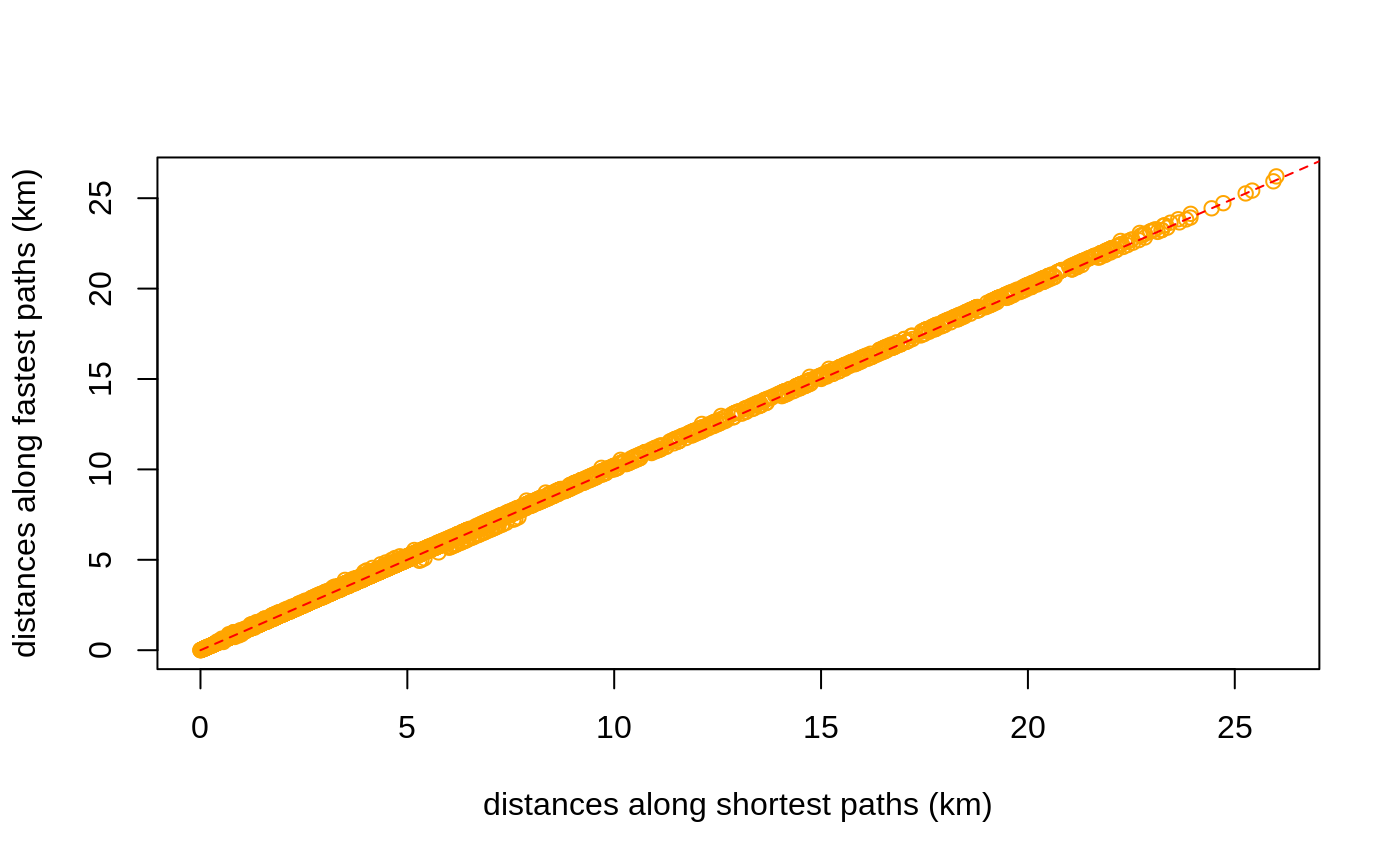
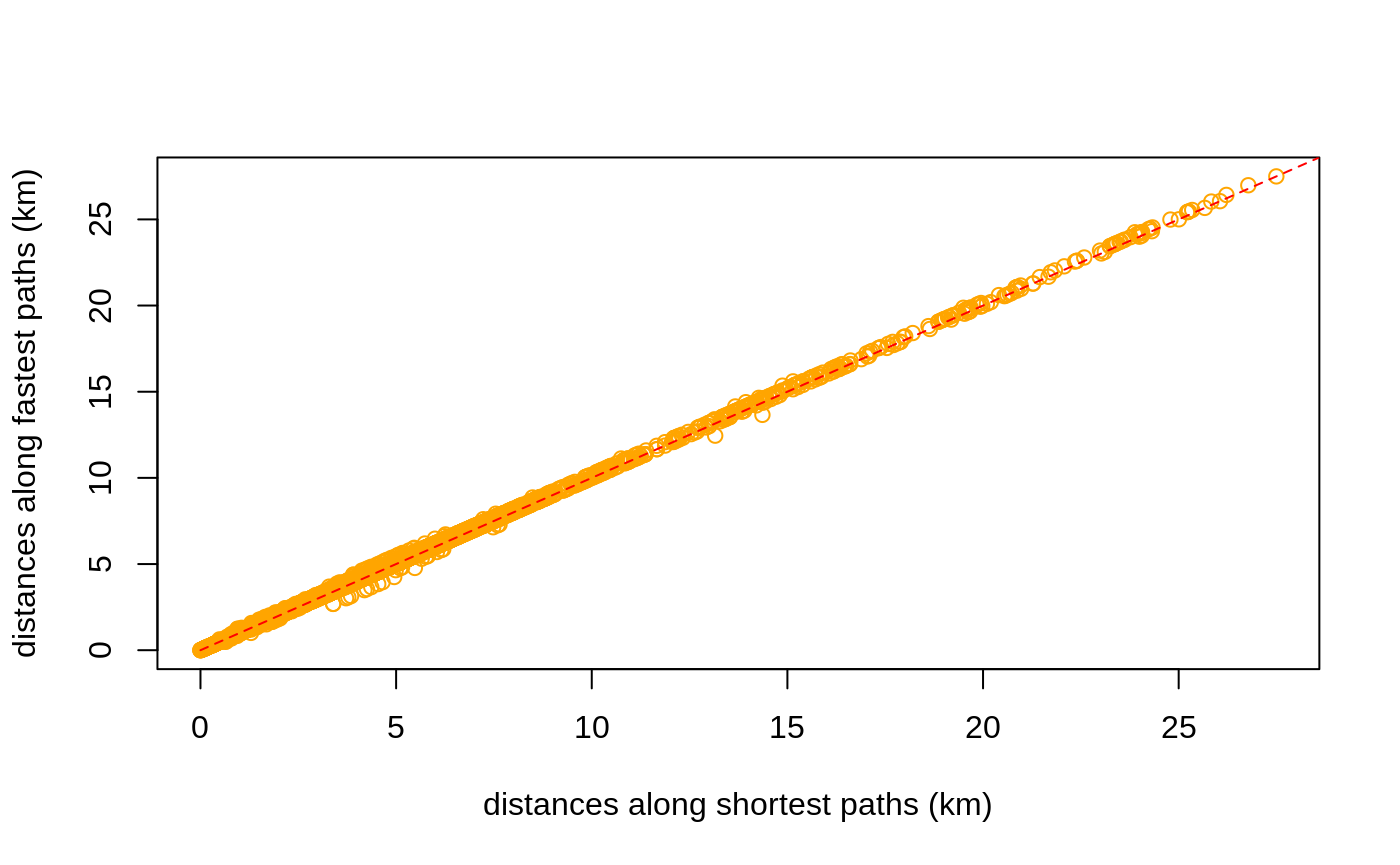
Built site for dodgr: 0.2.0.10@88dadec

diff --git a/articles/dodgr.html b/articles/dodgr.html
@@ -70,7 +70,7 @@
       <h1>dodgr</h1>
                         <h4 class="author">Mark Padgham</h4>
             
-            <h4 class="date">2019-09-10</h4>
+            <h4 class="date">2019-09-11</h4>
       
       <small class="dont-index">Source: <a href="https://github.com/ATFutures/dodgr/blob/master/vignettes/dodgr.Rmd"><code>vignettes/dodgr.Rmd</code></a></small>
       <div class="hidden name"><code>dodgr.Rmd</code></div>
@@ -423,31 +423,31 @@ Figure 2: A <strong>dual</strong>-weighted, directed graph in which the weights 
 <p>The comparisons are actually made on a randomly selected sub-component of the graph containing a defined number of vertices (with a default of 1,000, or the entire graph if it contains fewer than 1,000 vertices).</p>
 <div class="sourceCode" id="cb77"><pre class="sourceCode r"><code class="sourceCode r"><a class="sourceLine" id="cb77-1" data-line-number="1"><span class="kw"><a href="../reference/compare_heaps.html">compare_heaps</a></span> (graph, <span class="dt">nverts =</span> <span class="dv">100</span>, <span class="dt">replications =</span> <span class="dv">1</span>)</a></code></pre></div>
 <pre><code>##                                                                                   test
+## 11        d &lt;- dodgr_dists(graph_contracted, from = from_id, to = to_id, heap = "set")
+## 12                  d &lt;- igraph::distances(igr, v = from_id, to = to_id, mode = "out")
 ## 6       d &lt;- dodgr_dists(graph_contracted, from = from_id, to = to_id, heap = "BHeap")
 ## 7       d &lt;- dodgr_dists(graph_contracted, from = from_id, to = to_id, heap = "FHeap")
 ## 8     d &lt;- dodgr_dists(graph_contracted, from = from_id, to = to_id, heap = "TriHeap")
 ## 9  d &lt;- dodgr_dists(graph_contracted, from = from_id, to = to_id, heap = "TriHeapExt")
 ## 10     d &lt;- dodgr_dists(graph_contracted, from = from_id, to = to_id, heap = "Heap23")
-## 11        d &lt;- dodgr_dists(graph_contracted, from = from_id, to = to_id, heap = "set")
-## 12                  d &lt;- igraph::distances(igr, v = from_id, to = to_id, mode = "out")
-## 4             d &lt;- dodgr_dists(graph, from = from_id, to = to_id, heap = "TriHeapExt")
+## 5                 d &lt;- dodgr_dists(graph, from = from_id, to = to_id, heap = "Heap23")
 ## 1                  d &lt;- dodgr_dists(graph, from = from_id, to = to_id, heap = "BHeap")
 ## 2                  d &lt;- dodgr_dists(graph, from = from_id, to = to_id, heap = "FHeap")
 ## 3                d &lt;- dodgr_dists(graph, from = from_id, to = to_id, heap = "TriHeap")
-## 5                 d &lt;- dodgr_dists(graph, from = from_id, to = to_id, heap = "Heap23")
+## 4             d &lt;- dodgr_dists(graph, from = from_id, to = to_id, heap = "TriHeapExt")
 ##    replications elapsed relative user.self sys.self user.child sys.child
-## 6             1   0.002      1.0     0.003        0          0         0
-## 7             1   0.002      1.0     0.003        0          0         0
-## 8             1   0.002      1.0     0.003        0          0         0
-## 9             1   0.002      1.0     0.002        0          0         0
-## 10            1   0.002      1.0     0.002        0          0         0
 ## 11            1   0.002      1.0     0.002        0          0         0
-## 12            1   0.002      1.0     0.001        0          0         0
-## 4             1   0.003      1.5     0.004        0          0         0
-## 1             1   0.004      2.0     0.005        0          0         0
-## 2             1   0.004      2.0     0.005        0          0         0
-## 3             1   0.004      2.0     0.004        0          0         0
-## 5             1   0.004      2.0     0.004        0          0         0</code></pre>
+## 12            1   0.002      1.0     0.002        0          0         0
+## 6             1   0.003      1.5     0.003        0          0         0
+## 7             1   0.003      1.5     0.003        0          0         0
+## 8             1   0.003      1.5     0.003        0          0         0
+## 9             1   0.003      1.5     0.002        0          0         0
+## 10            1   0.003      1.5     0.003        0          0         0
+## 5             1   0.004      2.0     0.005        0          0         0
+## 1             1   0.005      2.5     0.005        0          0         0
+## 2             1   0.005      2.5     0.005        0          0         0
+## 3             1   0.005      2.5     0.005        0          0         0
+## 4             1   0.005      2.5     0.004        0          0         0</code></pre>
 <p>The key column of that <code>data.frame</code> is <code>relative</code>, which quantifies the relative performance of each test in relation to the best which is given a score of 1. <code>dodgr</code> using the default <code>heap = "BHeap"</code>, which is a binary heap priority queue, performs faster than <a href="https://igraph.org"><code>igraph</code></a> <span class="citation">(Csardi and Nepusz 2006)</span> for these graphs. Different kind of graphs will perform differently with different priority queue structures, and this function enables users to empirically discern the optimal heap for their kind of graph.</p>
 <p>Note, however, that this is not an entirely fair comparison, because <code>dodgr</code> calculates dual-weighted distances, whereas <a href="https://igraph.org"><code>igraph</code></a>—and indeed all other <strong>R</strong> packages—only directly calculate distances based on a single set of weights. Implementing dual-weighted routing in these cases requires explicitly re-tracing all paths and summing the second set of weights along each path. A time comparison in that case would be very strongly in favour of <code>dodgr</code>. Moreover, <code>dodgr</code> can convert graphs to contracted form through removing redundant vertices, as detailed in the following section. Doing so greatly improves performance with respect to <a href="https://igraph.org"><code>igraph</code></a>.</p>
 <p>For those wishing to do explicit comparisons themselves, the following code generates the <a href="https://igraph.org"><code>igraph</code></a> equivalent of <a href="https://atfutures.github.io/dodgr/reference/dodgr_distances.html"><code><a href="../reference/dodgr_distances.html">dodgr_distances()</a></code></a>, although of course for single-weighted graphs only:</p>
@@ -500,11 +500,11 @@ Figure 3: <strong>(A)</strong> Vertex#2 is redundant for routing calculations fr
 <pre><code>## [1] 672</code></pre>
 <div class="sourceCode" id="cb89"><pre class="sourceCode r"><code class="sourceCode r"><a class="sourceLine" id="cb89-1" data-line-number="1">verts &lt;-<span class="st"> </span><span class="kw"><a href="https://rdrr.io/r/base/sample.html">sample</a></span> (<span class="kw"><a href="../reference/dodgr_vertices.html">dodgr_vertices</a></span> (graph)<span class="op">$</span>id, <span class="dt">size =</span> <span class="dv">100</span>)</a>
 <a class="sourceLine" id="cb89-2" data-line-number="2"><span class="kw"><a href="https://rdrr.io/r/utils/head.html">head</a></span> (verts) <span class="co"># a character vector</span></a></code></pre></div>
-<pre><code>## [1] "6161030368" "980400874"  "980400907"  "1376768461" "2398957744"
-## [6] "2717241325"</code></pre>
+<pre><code>## [1] "3921513245" "2627452266" "2398957600" "1398747942" "1148814710"
+## [6] "1427080646"</code></pre>
 <div class="sourceCode" id="cb91"><pre class="sourceCode r"><code class="sourceCode r"><a class="sourceLine" id="cb91-1" data-line-number="1">grc &lt;-<span class="st"> </span><span class="kw"><a href="../reference/dodgr_contract_graph.html">dodgr_contract_graph</a></span> (graph, verts)</a>
 <a class="sourceLine" id="cb91-2" data-line-number="2"><span class="kw"><a href="https://rdrr.io/r/base/nrow.html">nrow</a></span> (grc)</a></code></pre></div>
-<pre><code>## [1] 852</code></pre>
+<pre><code>## [1] 853</code></pre>
 <p>Retaining the nominated vertices yields a graph with considerably more edges than the fully contracted graph excluding these vertices. The <a href="https://atfutures.github.io/dodgr/reference/dodgr_distances.html"><code><a href="../reference/dodgr_distances.html">dodgr_distances()</a></code></a> function can be applied to the latter graph to obtain accurate distances precisely routed between these points, yet using the speed advantages of graph contraction.</p>
 </div>
 </div>
@@ -545,40 +545,30 @@ Figure 3: <strong>(A)</strong> Vertex#2 is redundant for routing calculations fr
 <pre><code>## [1] 10</code></pre>
 <p>The result (<code>dp</code>) is a list of 10 items, each of which contains 5 vectors. An example is,</p>
 <div class="sourceCode" id="cb98"><pre class="sourceCode r"><code class="sourceCode r"><a class="sourceLine" id="cb98-1" data-line-number="1">dp [[<span class="dv">1</span>]] [[<span class="dv">1</span>]]</a></code></pre></div>
-<pre><code>##   [1] "2398957576" "338905220"  "2398957584" "1376769086" "1376768510"
-##   [6] "2398957588" "2398957589" "338905219"  "1376768779" "1376769164"
-##  [11] "338905128"  "1427115955" "339574628"  "2398957619" "339574629" 
-##  [16] "339574630"  "2398957639" "2398957654" "1148814809" "2717241324"
-##  [21] "339574631"  "2398957686" "3818714155" "339574819"  "339574820" 
-##  [26] "3818714154" "6228103645" "6228103646" "6228103647" "6228103648"
-##  [31] "6228103649" "339574828"  "339574829"  "1376768626" "1376768985"
-##  [36] "1376768324" "1376768690" "1376769039" "1376768478" "1560930407"
-##  [41] "1376768586" "1376768946" "1376768369" "1376768738" "2717241312"
-##  [46] "2717241323" "2717241306" "2717241321" "2717241309" "2717241332"
-##  [51] "2717241339" "2717241317" "2717241331" "2717241300" "2717241302"
-##  [56] "6410121124" "1376768559" "1376768918" "1376769209" "1376768614"
-##  [61] "1376768975" "1376768398" "1376768862" "1376768464" "1376768828"
-##  [66] "1376769110" "3697937607" "3697937608" "3697937609" "3697937616"
-##  [71] "3697937612" "3697937611" "3697937613" "3697937614" "3697937615"
-##  [76] "3697937610" "3697937571" "3697938325" "3697938326" "3697938327"
-##  [81] "3697938328" "3697938332" "3697938329" "3697938330" "3697938331"
-##  [86] "3697938336" "3697938337" "3697938338" "3697938333" "3697938334"
-##  [91] "3697938335" "3697938022" "3697938021" "3697938023" "3697938024"
-##  [96] "338904455"  "2398957843" "338908589"  "1148814896" "286632900" 
-## [101] "2398957865" "676875132"  "1148815150" "286632901"  "2398957883"
-## [106] "2398957885" "339574320"  "286632902"  "6161027560" "980400323" 
-## [111] "2398957878" "2398957876"</code></pre>
+<pre><code>##  [1] "1143452400" "1143452081" "1143452160" "1143452325" "5351394645"
+##  [6] "1143452459" "5351394646" "2627430641" "5351394647" "1143452205"
+## [11] "5351394648" "1143452283" "1143452404" "2627428625" "2627428633"
+## [16] "2627428631" "2627428628" "2627428627" "2627428629" "2627428647"
+## [21] "2627428637" "2627430653" "2627428651" "2627428638" "2627428646"
+## [26] "2627428641" "2627428645" "2627428643" "3921512068" "2627428642"
+## [31] "2627428640" "2627428636" "2608163935" "2627428648" "2627428650"
+## [36] "2608163925" "2608163923" "2608163921" "2608163920" "2608163919"
+## [41] "2608163918" "2608163917" "2608163916" "2608163915" "2608163914"
+## [46] "2608163913" "2608163908" "2608163907" "2608163906" "2608163903"
+## [51] "2608163902" "2608163900" "2627436888" "2627436878" "2627436881"
+## [56] "2608076499" "2608076497" "2608076495" "2608076493" "2608076491"
+## [61] "2608076489" "2608076487" "2608076485"</code></pre>
 <p>For spatial graphs, the coordinates of these paths can be obtained by extracting the vertices with <code><a href="../reference/dodgr_vertices.html">dodgr_vertices()</a></code> and matching the vertex IDs:</p>
 <div class="sourceCode" id="cb100"><pre class="sourceCode r"><code class="sourceCode r"><a class="sourceLine" id="cb100-1" data-line-number="1">verts &lt;-<span class="st"> </span><span class="kw"><a href="../reference/dodgr_vertices.html">dodgr_vertices</a></span> (graph)</a>
 <a class="sourceLine" id="cb100-2" data-line-number="2">path1 &lt;-<span class="st"> </span>verts [<span class="kw"><a href="https://rdrr.io/r/base/match.html">match</a></span> (dp [[<span class="dv">1</span>]] [[<span class="dv">1</span>]], verts<span class="op">$</span>id), ]</a>
 <a class="sourceLine" id="cb100-3" data-line-number="3"><span class="kw"><a href="https://rdrr.io/r/utils/head.html">head</a></span> (path1)</a></code></pre></div>
 <pre><code>##              id        x        y component    n
-## 4660 2398957576 76.47415 15.31172         1 2314
-## 47    338905220 76.47398 15.31224         1   24
-## 4656 2398957584 76.47386 15.31251         1 2313
-## 4654 1376769086 76.47376 15.31270         1 2312
-## 4652 1376768510 76.47370 15.31279         1 2311
-## 4650 2398957588 76.47361 15.31285         1 2310</code></pre>
+## 4076 1143452400 76.45879 15.34589         2 2036
+## 4074 1143452081 76.45924 15.34599         2 2035
+## 4072 1143452160 76.45984 15.34616         2 2034
+## 4070 1143452325 76.46037 15.34632         2 2033
+## 4068 5351394645 76.46075 15.34629         2 2032
+## 4066 1143452459 76.46082 15.34628         2 2031</code></pre>
 <p>Paths calculated on contracted graphs will of course have fewer vertices than those calculated on full graphs.</p>
 </div>
 <div id="aggregated-flows" class="section level1">
@@ -622,7 +612,7 @@ Figure 3: <strong>(A)</strong> Vertex#2 is redundant for routing calculations fr
 <p>Most flows are zero because they have only been calculated between very few points in the graph.</p>
 <div class="sourceCode" id="cb105"><pre class="sourceCode r"><code class="sourceCode r"><a class="sourceLine" id="cb105-1" data-line-number="1"><span class="kw"><a href="https://rdrr.io/r/base/summary.html">summary</a></span> (graph_f<span class="op">$</span>flow)</a></code></pre></div>
 <pre><code>##    Min. 1st Qu.  Median    Mean 3rd Qu.    Max. 
-##   0.000   0.000   0.000   6.012   0.000 122.472</code></pre>
+##   0.000   0.000   0.000   5.312   4.815  44.707</code></pre>
 </div>
 <div id="flow-dispersal" class="section level2">
 <h2 class="hasAnchor">
@@ -632,7 +622,7 @@ Figure 3: <strong>(A)</strong> Vertex#2 is redundant for routing calculations fr
 <a class="sourceLine" id="cb107-2" data-line-number="2">graph_f &lt;-<span class="st"> </span><span class="kw"><a href="../reference/dodgr_flows_disperse.html">dodgr_flows_disperse</a></span> (graph, <span class="dt">from =</span> from, <span class="dt">dens =</span> dens)</a>
 <a class="sourceLine" id="cb107-3" data-line-number="3"><span class="kw"><a href="https://rdrr.io/r/base/summary.html">summary</a></span> (graph_f<span class="op">$</span>flow)</a></code></pre></div>
 <pre><code>##      Min.   1st Qu.    Median      Mean   3rd Qu.      Max. 
-## 0.000e+00 0.000e+00 0.000e+00 2.114e-06 0.000e+00 6.935e-03</code></pre>
+## 0.000e+00 0.000e+00 0.000e+00 3.004e-05 0.000e+00 8.211e-02</code></pre>
 </div>
 <div id="merging-directed-flows" class="section level2">
 <h2 class="hasAnchor">
@@ -642,7 +632,7 @@ Figure 3: <strong>(A)</strong> Vertex#2 is redundant for routing calculations fr
 <p>Resultant graphs produced by <a href="https://atfutures.github.io/dodgr/reference/merge_directed_flows.html"><code><a href="../reference/merge_directed_flows.html">merge_directed_flows()</a></code></a> only include those edges having non-zero flows, and so:</p>
 <div class="sourceCode" id="cb110"><pre class="sourceCode r"><code class="sourceCode r"><a class="sourceLine" id="cb110-1" data-line-number="1"><span class="kw"><a href="https://rdrr.io/r/base/nrow.html">nrow</a></span> (graph_f); <span class="kw"><a href="https://rdrr.io/r/base/nrow.html">nrow</a></span> (graph_undir) <span class="co"># the latter is much smaller</span></a></code></pre></div>
 <pre><code>## [1] 5973</code></pre>
-<pre><code>## [1] 1950</code></pre>
+<pre><code>## [1] 1862</code></pre>
 <p>The resultant graph can readily be merged with the original graph to regain the original data on vertex coordinates through</p>
 <div class="sourceCode" id="cb113"><pre class="sourceCode r"><code class="sourceCode r"><a class="sourceLine" id="cb113-1" data-line-number="1">graph &lt;-<span class="st"> </span>graph [graph_undir<span class="op">$</span>edge_id, ]</a>
 <a class="sourceLine" id="cb113-2" data-line-number="2">graph<span class="op">$</span>flow &lt;-<span class="st"> </span>graph_undir<span class="op">$</span>flow</a></code></pre></div>

diff --git a/articles/times.html b/articles/times.html
@@ -70,7 +70,7 @@
       <h1>Street networks and time-based routing</h1>
                         <h4 class="author">Mark Padgham</h4>
             
-            <h4 class="date">2019-09-10</h4>
+            <h4 class="date">2019-09-11</h4>
       
       <small class="dont-index">Source: <a href="https://github.com/ATFutures/dodgr/blob/master/vignettes/times.Rmd"><code>vignettes/times.Rmd</code></a></small>
       <div class="hidden name"><code>times.Rmd</code></div>
@@ -230,11 +230,11 @@ Figure 1: Graph modification to account for turn penalties, which introduces the
 <p><img src="times_files/figure-html/shortest-vs-fastest-1.png" width="700"></p>
 <p>The average distance between the two (in metres) is:</p>
 <div class="sourceCode" id="cb9"><pre class="sourceCode r"><code class="sourceCode r"><a class="sourceLine" id="cb9-1" data-line-number="1"><span class="kw"><a href="https://rdrr.io/r/base/mean.html">mean</a></span> (<span class="kw"><a href="https://rdrr.io/r/base/MathFun.html">abs</a></span> (d_time <span class="op">-</span><span class="st"> </span>d_dist), <span class="dt">na.rm =</span> <span class="ot">TRUE</span>)</a></code></pre></div>
-<pre><code>## [1] 39.87143</code></pre>
+<pre><code>## [1] 49.08228</code></pre>
 <p>The plot reveals that shortest distances are indeed somewhat shorter than distances along fastest paths, but also that some fastest paths are actually shorter than shortest paths:</p>
 <div class="sourceCode" id="cb11"><pre class="sourceCode r"><code class="sourceCode r"><a class="sourceLine" id="cb11-1" data-line-number="1">index &lt;-<span class="st"> </span><span class="kw"><a href="https://rdrr.io/r/base/which.html">which</a></span> (<span class="op">!</span><span class="kw"><a href="https://rdrr.io/r/base/NA.html">is.na</a></span> (d_time) <span class="op">&amp;</span><span class="st"> </span><span class="op">!</span><span class="kw"><a href="https://rdrr.io/r/base/NA.html">is.na</a></span> (d_dist))</a>
 <a class="sourceLine" id="cb11-2" data-line-number="2"><span class="kw"><a href="https://rdrr.io/r/base/length.html">length</a></span> (<span class="kw"><a href="https://rdrr.io/r/base/which.html">which</a></span> (d_time [index] <span class="op">&lt;</span><span class="st"> </span>d_dist [index])) <span class="op">/</span><span class="st"> </span><span class="kw"><a href="https://rdrr.io/r/base/length.html">length</a></span> (index)</a></code></pre></div>
-<pre><code>## [1] 0.0143776</code></pre>
+<pre><code>## [1] 0.01651032</code></pre>
 <p>While <code>dodgr</code> and indeed all routing engines attempt to maximally reconcile differences between fastest and shortest routes, there nevertheless remain important discrepancies. Foremost among these, and the primary reason why some fastest routes may in fact be shorter than shortest routes, is that fastest routes allocate preferences for different kinds of way based both on the <code>value</code> column in the <code>weighting_profiles$weighting_profiles</code> table illustrated above, and on the actual maximum speed of a given edge, which itself may be a combination of maximum speeds as specified in OSM itself, maximum speeds from the <code>weighting_profiles$weighting_profiles</code> table, or values specific to a given surface. The result is that some unique combination of maximum speeds along a network may lead to <em>fastest</em> routes being preferentially directed along a path that is actually shorter than the direct shortest path which is calculated independent of maximum speed values.</p>
 <p>Such discrepancies are important in understanding differences in routes <em>times</em> calculated along shortest versus fastest paths. These times can be calculated (in seconds) with the <a href="https://atfutures.github.io/dodgr/reference/dodgr_times.html"><code><a href="../reference/dodgr_times.html">dodgr_times()</a></code></a> function:</p>
 <div class="sourceCode" id="cb13"><pre class="sourceCode r"><code class="sourceCode r"><a class="sourceLine" id="cb13-1" data-line-number="1">t_dist &lt;-<span class="st"> </span><span class="kw"><a href="../reference/dodgr_times.html">dodgr_times</a></span> (graph, <span class="dt">from =</span> from, <span class="dt">to =</span> to, <span class="dt">shortest =</span> <span class="ot">TRUE</span>) <span class="co"># default</span></a>
@@ -245,11 +245,11 @@ Figure 1: Graph modification to account for turn penalties, which introduces the
 <a class="sourceLine" id="cb13-6" data-line-number="6"><span class="kw"><a href="https://rdrr.io/r/graphics/lines.html">lines</a></span> (<span class="dv">0</span><span class="op">:</span><span class="dv">100</span>, <span class="dv">0</span><span class="op">:</span><span class="dv">100</span>, <span class="dt">col =</span> <span class="st">"red"</span>, <span class="dt">lty =</span> <span class="dv">2</span>)</a></code></pre></div>
 <p><img src="times_files/figure-html/shortest-vs-fastest-times-1.png" width="700"></p>
 <div class="sourceCode" id="cb14"><pre class="sourceCode r"><code class="sourceCode r"><a class="sourceLine" id="cb14-1" data-line-number="1"><span class="kw"><a href="https://rdrr.io/r/base/mean.html">mean</a></span> (<span class="kw"><a href="https://rdrr.io/r/base/MathFun.html">abs</a></span> (t_time <span class="op">-</span><span class="st"> </span>t_dist), <span class="dt">na.rm =</span> <span class="ot">TRUE</span>)</a></code></pre></div>
-<pre><code>## [1] 42.88652</code></pre>
+<pre><code>## [1] 49.42954</code></pre>
 <p>As above, times along fastest paths are generally less than times along shortest paths, although there are again a few exceptions:</p>
 <div class="sourceCode" id="cb16"><pre class="sourceCode r"><code class="sourceCode r"><a class="sourceLine" id="cb16-1" data-line-number="1">index &lt;-<span class="st"> </span><span class="kw"><a href="https://rdrr.io/r/base/which.html">which</a></span> (<span class="op">!</span><span class="kw"><a href="https://rdrr.io/r/base/NA.html">is.na</a></span> (t_time) <span class="op">&amp;</span><span class="st"> </span><span class="op">!</span><span class="kw"><a href="https://rdrr.io/r/base/NA.html">is.na</a></span> (t_dist))</a>
 <a class="sourceLine" id="cb16-2" data-line-number="2"><span class="kw"><a href="https://rdrr.io/r/base/length.html">length</a></span> (<span class="kw"><a href="https://rdrr.io/r/base/which.html">which</a></span> (t_dist [index] <span class="op">&lt;</span><span class="st"> </span>t_time [index])) <span class="op">/</span><span class="st"> </span><span class="kw"><a href="https://rdrr.io/r/base/length.html">length</a></span> (index)</a></code></pre></div>
-<pre><code>## [1] 0.007567159</code></pre>
+<pre><code>## [1] 0.01125704</code></pre>
 <p>These results demonstrate how the combination of the <a href="https://atfutures.github.io/dodgr/reference/dodgr_distances.html"><code><a href="../reference/dodgr_distances.html">dodgr_distances()</a></code></a> and <a href="https://atfutures.github.io/dodgr/reference/dodgr_times.html"><code><a href="../reference/dodgr_times.html">dodgr_times()</a></code></a> functions enable calculation of both distances and times along both shortest and fastest paths.</p>
 <div id="time-based-paths-and-flow-aggregation" class="section level2">
 <h2 class="hasAnchor">

diff --git a/reference/compare_heaps.html b/reference/compare_heaps.html
@@ -157,11 +157,11 @@ fair comparisons, run only once or re-start the current R session.</p>
     <pre class="examples"><div class='input'><span class='no'>graph</span> <span class='kw'>&lt;-</span> <span class='fu'><a href='weight_streetnet.html'>weight_streetnet</a></span> (<span class='no'>hampi</span>)
 <span class='fu'>compare_heaps</span> (<span class='no'>graph</span>, <span class='kw'>nverts</span> <span class='kw'>=</span> <span class='fl'>1000</span>, <span class='kw'>replications</span> <span class='kw'>=</span> <span class='fl'>1</span>)</div><div class='output co'>#&gt;                                                                                   test
 #&gt; 6       d &lt;- dodgr_dists(graph_contracted, from = from_id, to = to_id, heap = "BHeap")
+#&gt; 11        d &lt;- dodgr_dists(graph_contracted, from = from_id, to = to_id, heap = "set")
 #&gt; 7       d &lt;- dodgr_dists(graph_contracted, from = from_id, to = to_id, heap = "FHeap")
 #&gt; 8     d &lt;- dodgr_dists(graph_contracted, from = from_id, to = to_id, heap = "TriHeap")
 #&gt; 9  d &lt;- dodgr_dists(graph_contracted, from = from_id, to = to_id, heap = "TriHeapExt")
 #&gt; 10     d &lt;- dodgr_dists(graph_contracted, from = from_id, to = to_id, heap = "Heap23")
-#&gt; 11        d &lt;- dodgr_dists(graph_contracted, from = from_id, to = to_id, heap = "set")
 #&gt; 1                  d &lt;- dodgr_dists(graph, from = from_id, to = to_id, heap = "BHeap")
 #&gt; 12                  d &lt;- igraph::distances(igr, v = from_id, to = to_id, mode = "out")
 #&gt; 2                  d &lt;- dodgr_dists(graph, from = from_id, to = to_id, heap = "FHeap")
@@ -169,18 +169,18 @@ fair comparisons, run only once or re-start the current R session.</p>
 #&gt; 3                d &lt;- dodgr_dists(graph, from = from_id, to = to_id, heap = "TriHeap")
 #&gt; 4             d &lt;- dodgr_dists(graph, from = from_id, to = to_id, heap = "TriHeapExt")
 #&gt;    replications elapsed relative user.self sys.self user.child sys.child
-#&gt; 6             1   0.003    1.000     0.004    0.000          0         0
-#&gt; 7             1   0.004    1.333     0.005    0.000          0         0
-#&gt; 8             1   0.004    1.333     0.005    0.000          0         0
-#&gt; 9             1   0.004    1.333     0.004    0.000          0         0
-#&gt; 10            1   0.004    1.333     0.005    0.000          0         0
-#&gt; 11            1   0.004    1.333     0.004    0.000          0         0
-#&gt; 1             1   0.012    4.000     0.014    0.003          0         0
-#&gt; 12            1   0.014    4.667     0.015    0.000          0         0
-#&gt; 2             1   0.017    5.667     0.027    0.000          0         0
-#&gt; 5             1   0.019    6.333     0.033    0.000          0         0
-#&gt; 3             1   0.020    6.667     0.033    0.000          0         0
-#&gt; 4             1   0.020    6.667     0.021    0.000          0         0</div></pre>
+#&gt; 6             1   0.003    1.000     0.004        0          0         0
+#&gt; 11            1   0.003    1.000     0.004        0          0         0
+#&gt; 7             1   0.004    1.333     0.005        0          0         0
+#&gt; 8             1   0.004    1.333     0.006        0          0         0
+#&gt; 9             1   0.004    1.333     0.004        0          0         0
+#&gt; 10            1   0.004    1.333     0.006        0          0         0
+#&gt; 1             1   0.012    4.000     0.018        0          0         0
+#&gt; 12            1   0.014    4.667     0.014        0          0         0
+#&gt; 2             1   0.018    6.000     0.032        0          0         0
+#&gt; 5             1   0.020    6.667     0.034        0          0         0
+#&gt; 3             1   0.021    7.000     0.037        0          0         0
+#&gt; 4             1   0.021    7.000     0.021        0          0         0</div></pre>
   </div>
   <div class="col-md-3 hidden-xs hidden-sm" id="sidebar">
     <h2>Contents</h2>

diff --git a/reference/dodgr_sample.html b/reference/dodgr_sample.html
@@ -143,7 +143,7 @@ the requested <code>nverts</code>.</p>
     <h2 class="hasAnchor" id="examples"><a class="anchor" href="#examples"></a>Examples</h2>
     <pre class="examples"><div class='input'><span class='no'>graph</span> <span class='kw'>&lt;-</span> <span class='fu'><a href='weight_streetnet.html'>weight_streetnet</a></span> (<span class='no'>hampi</span>)
 <span class='fu'><a href='https://rdrr.io/r/base/nrow.html'>nrow</a></span> (<span class='no'>graph</span>) <span class='co'># 5,742</span></div><div class='output co'>#&gt; [1] 5973</div><div class='input'><span class='no'>graph</span> <span class='kw'>&lt;-</span> <span class='fu'>dodgr_sample</span> (<span class='no'>graph</span>, <span class='kw'>nverts</span> <span class='kw'>=</span> <span class='fl'>200</span>)
-<span class='fu'><a href='https://rdrr.io/r/base/nrow.html'>nrow</a></span> (<span class='no'>graph</span>) <span class='co'># generally around 400 edges</span></div><div class='output co'>#&gt; [1] 399</div><div class='input'><span class='fu'><a href='https://rdrr.io/r/base/nrow.html'>nrow</a></span> (<span class='fu'><a href='dodgr_vertices.html'>dodgr_vertices</a></span> (<span class='no'>graph</span>)) <span class='co'># 200</span></div><div class='output co'>#&gt; [1] 200</div></pre>
+<span class='fu'><a href='https://rdrr.io/r/base/nrow.html'>nrow</a></span> (<span class='no'>graph</span>) <span class='co'># generally around 400 edges</span></div><div class='output co'>#&gt; [1] 410</div><div class='input'><span class='fu'><a href='https://rdrr.io/r/base/nrow.html'>nrow</a></span> (<span class='fu'><a href='dodgr_vertices.html'>dodgr_vertices</a></span> (<span class='no'>graph</span>)) <span class='co'># 200</span></div><div class='output co'>#&gt; [1] 200</div></pre>
   </div>
   <div class="col-md-3 hidden-xs hidden-sm" id="sidebar">
     <h2>Contents</h2>

diff --git a/articles/benchmark.html b/articles/benchmark.html
@@ -70,7 +70,7 @@
       <h1>dodgr benchmark</h1>
                         <h4 class="author">Andreas Petutschnig</h4>
             
-            <h4 class="date">2019-09-10</h4>
+            <h4 class="date">2019-09-11</h4>
       
       <small class="dont-index">Source: <a href="https://github.com/ATFutures/dodgr/blob/master/vignettes/benchmark.Rmd"><code>vignettes/benchmark.Rmd</code></a></small>
       <div class="hidden name"><code>benchmark.Rmd</code></div>
